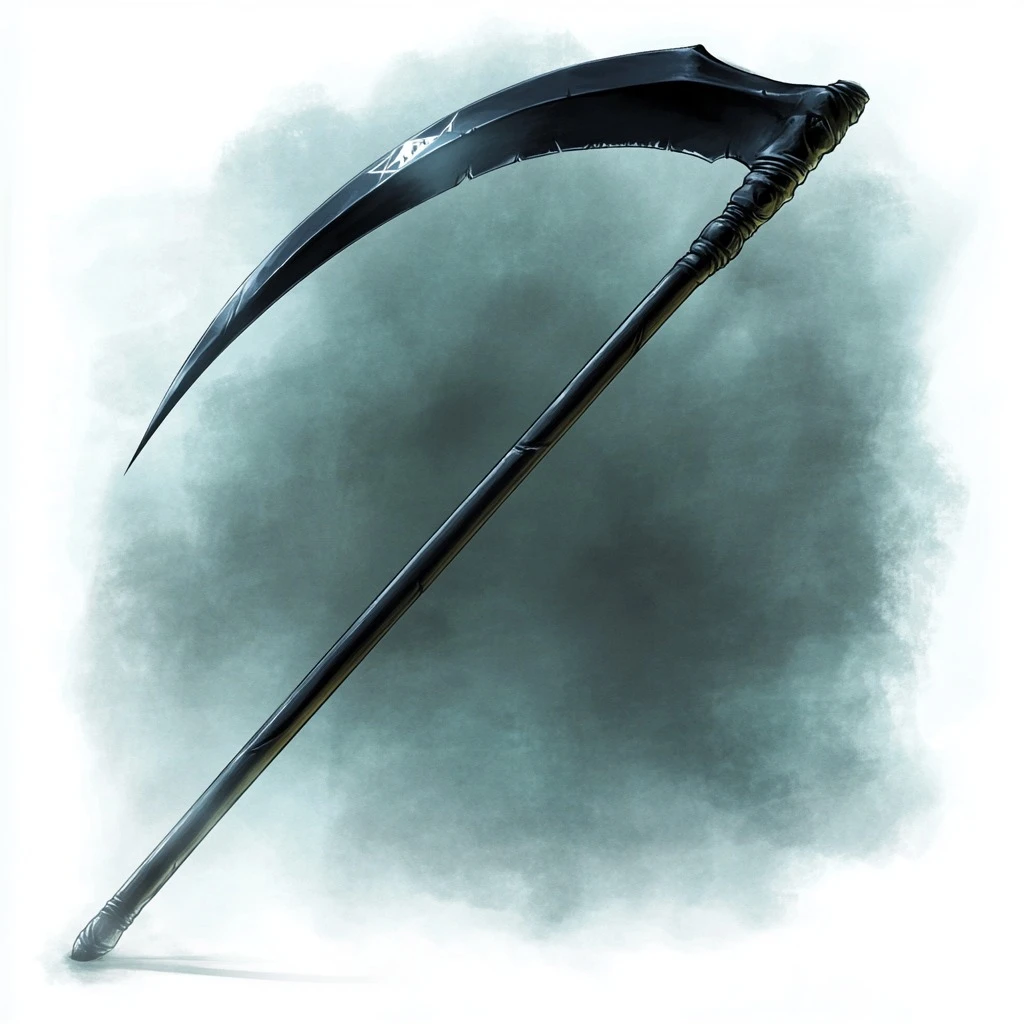
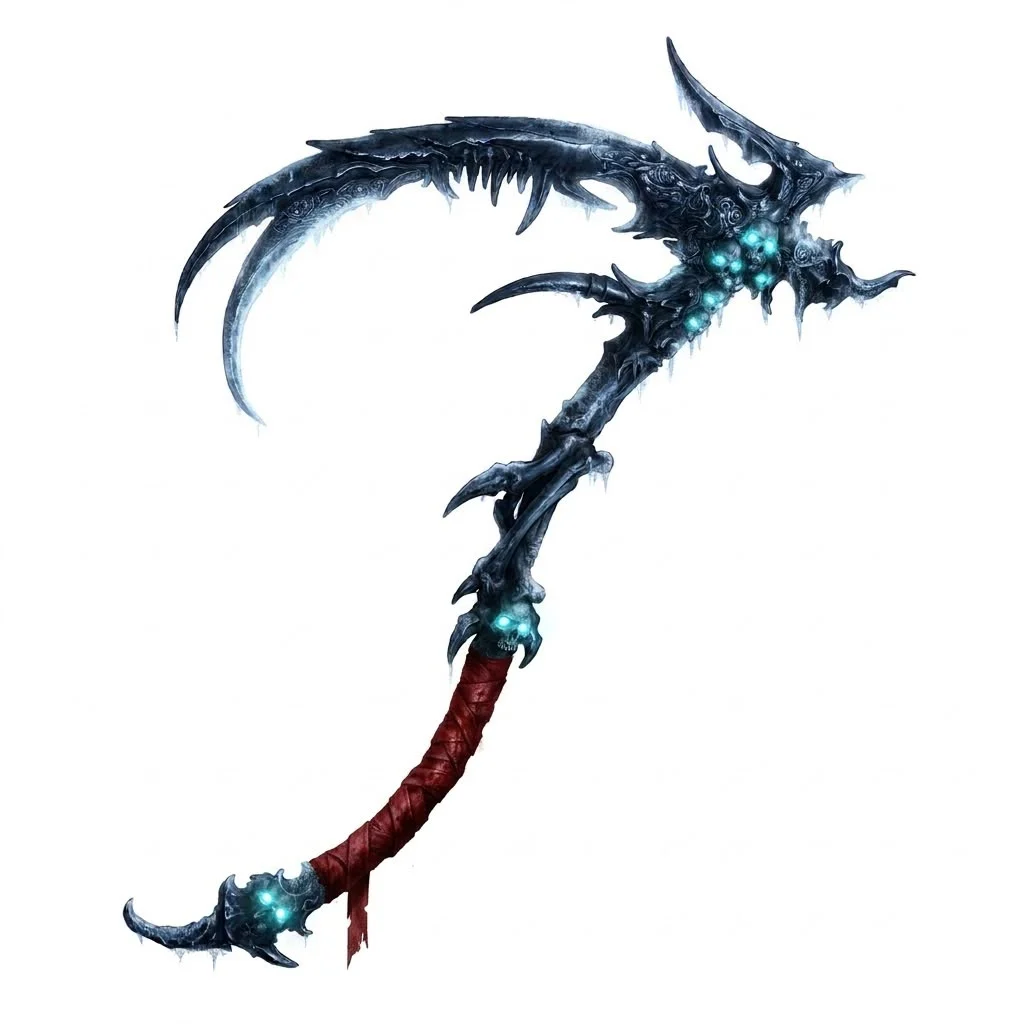
Nova ilustração da Ceifadora de Myrkul

diff --git a/src/ui/app.css b/src/ui/app.css
@@ -371,7 +371,7 @@ textarea.input { min-height: 160px; resize: vertical; line-height: 1.5; }
 .reliquia-estrelas { display: flex; gap: 3px; color: var(--gold); margin: 8px 2px; filter: drop-shadow(0 0 4px rgba(201, 169, 97, 0.5)); }
 .reliquia-arte {
   margin: 0; border: 3px solid #5d7a9a; border-radius: 6px; overflow: hidden; aspect-ratio: 1;
-  box-shadow: 0 0 0 1px #2c3a4a, 0 14px 36px rgba(0, 0, 0, 0.6); background: #cfd8d6;
+  box-shadow: 0 0 0 1px #2c3a4a, 0 14px 36px rgba(0, 0, 0, 0.6); background: #fff;
 }
 .reliquia-arte img { width: 100%; height: 100%; object-fit: cover; display: block; }
 .reliquia-sub { text-align: right; font-style: italic; color: var(--bone-dim); margin: 6px 2px 12px; }

diff --git a/src/features/Reliquia.tsx b/src/features/Reliquia.tsx
@@ -38,7 +38,7 @@ export function Reliquia() {
           {Array.from({ length: cartao.estrelas }, (_, i) => <StarIcon key={i} size={18} weight="fill" />)}
         </div>
         <figure className="reliquia-arte">
-          <img src={cartao.imagem} alt="A Ceifadora de Myrkul: foice longa negra com runas na lâmina" />
+          <img src={cartao.imagem} alt="A Ceifadora de Myrkul: foice de ossos negros e gelo, com crânios de olhos azuis brilhantes e o cabo envolto em tecido vermelho" />
         </figure>
         <p className="reliquia-sub">{cartao.sub}</p>
 
